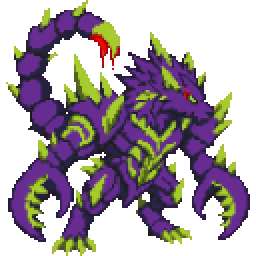
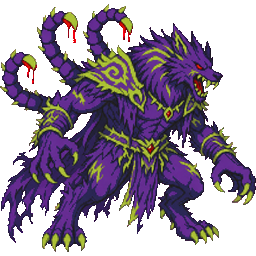
feat(arte): Vileza Poder — Ultimate, Mega (3 caudas) e Ultra regeradas por API

diff --git a/docs/REGISTRO-DE-DECISOES.md b/docs/REGISTRO-DE-DECISOES.md
@@ -4482,3 +4482,9 @@ A Oficina de antes pagava no máximo 8 itens por dia: a renda de material dobra 
 **Anti-trapaça (limite honesto, como `_dayCounters.js`):** o servidor lembra, não valida a energia (o save é do cliente): gasto só desce (`left = min`), lote novo só entra com posse viva gravada ≤ 2 e no máximo um por gravação, `at` dentro de ±1 dia do relógio do servidor, posse viva ≤ 5, lote com 24 h do relógio do servidor sai. Apagar o save local ou editar o JSON não devolve nem cria ticket além do que a regra de compra permitiria; a energia paga na compra segue só no cliente.
 
 **Rollback:** reverter o PR volta à sessão; o `funTickets` gravado vira campo desconhecido (ignorado) e `funSession` ausente = nenhuma sessão — nada corrompe. Tickets em posse na hora do rollback se perdem (custo: 1 energia por lote).
+
+## §271 — Vileza/Poder: Ultimate, Mega (3 caudas) e Ultra regeradas por API (09/11/2026)
+
+**Decisão:** as três formas altas da Vileza/Poder (`novos/vileza-{ultimate,mega,ultra}.png`) são substituídas pelas versões aprovadas pelo dono (Ultimate `poder/ultimate.novo`, Mega `poder/mega.novo2` com 3 caudas de escorpião, Ultra `ultra.novo2`), todas geradas pela **API Higgsfield — regra: sprite só via API** (nada de ChatGPT para sprite). O Champion lobisomem não mudou. Pipeline: remoção de franja/pixels magenta e de ilhas <24 px, recorte da bounding box, redução proporcional para 256² (mesmo tamanho dos sprites atuais da linha), alfa binário. Fontes e metas (prompt/tags) em `E:\Soulmon-assets\vileza-v2\`; inventário: os três arquivos acima constam como "API Higgsfield" em `docs/INVENTARIO-ASSETS.md`.
+
+**Alternativa que perdeu:** manter as formas v2 sem a cauda tripla. **Falsifica:** o dono ver a Mega sem as 3 caudas ou franja magenta no Ultra em combate.

diff --git a/docs/INVENTARIO-ASSETS.md b/docs/INVENTARIO-ASSETS.md
@@ -430,3 +430,5 @@ Fonte: `E:\Soulmon-assets\beta3-geradas\chatgpt\` (ChatGPT, alfa real; reduzidos
 - `npcs/npc-forja-caderno.png` e `npc-forja-refugio.png` (512², alfa binário) ← `E:/Soulmon-assets/gerados-2026-10-29/NPC-fantasma-maquinista.png` e `NPC-refugio-macaco.png` (1254² RGBA; recorte pelo alfa ≥128, encaixe em 500 px, centrado) (29/10); `LOT_NPC_ART['forja:caderno']` = Trilho e `['forja:refugio']` = Yuzu (§181). `npc-akasha-exploracao-caderno.png` e `npc-oceano-jogos-refugio.png` ficaram sem uso.
 
 > **05/11/2026:** `levelup/bond-up-<en|pt>-<entrada|laco|fixo>.webp` (342×256; 15 quadros de entrada, laço de 8, fixo) substituem `levelup-banner.png` e `levelup-banner-pt.png`. Fonte: folhas do dono em `E:/Soulmon-assets/bond-up/dono/`, recorte por projeção e registro pelo trilho da placa (`recorte.py`).
+
+> **Atualização 09/11/2026 (Vileza/Poder):** `soulmon/novos/vileza-{ultimate,mega,ultra}.png` (256², alfa real binário) substituídos por versões geradas via **API Higgsfield (regra: sprite só via API)**; Mega com 3 caudas de escorpião; fontes em `E:\Soulmon-assets\vileza-v2\`. `vileza-champion` e `vileza-rookie` inalterados. Ver `REGISTRO-DE-DECISOES.md` §271.
